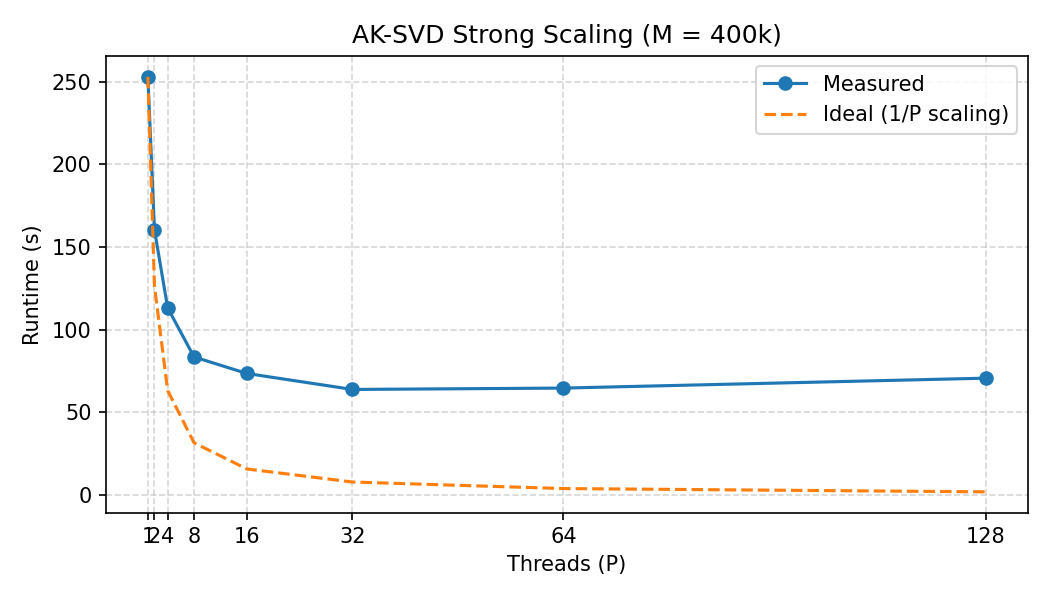
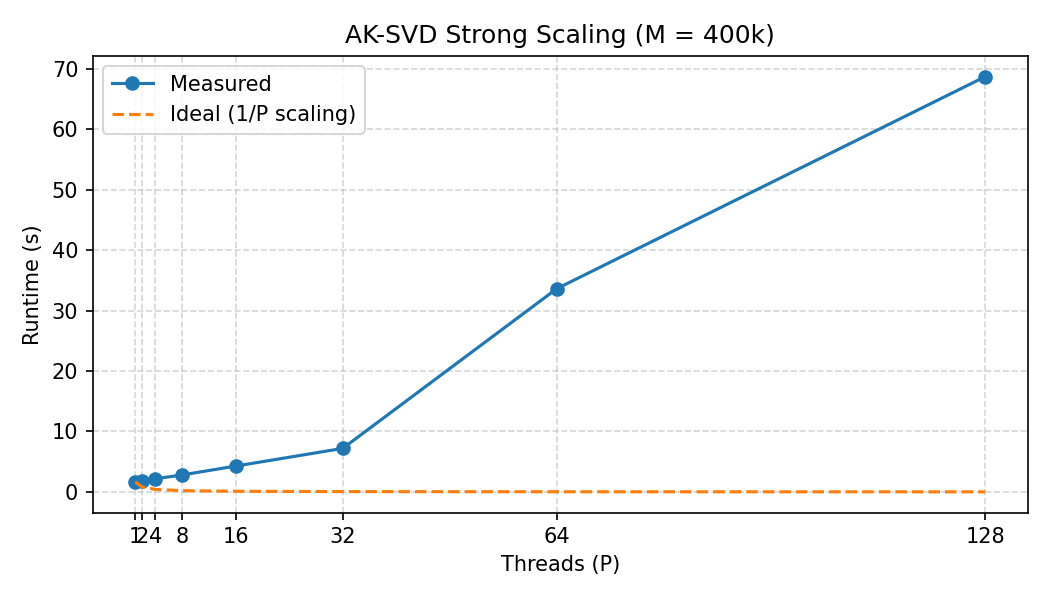
Weak scaling test results

diff --git a/Experiments/Scaling_cpp/scaling_comp_weak.py b/Experiments/Scaling_cpp/scaling_comp_weak.py
@@ -1,0 +1,75 @@
+import subprocess, re, os, csv
+import matplotlib
+matplotlib.use("Agg")
+import matplotlib.pyplot as plt
+
+BINARY = os.path.join(os.path.dirname(__file__),
+                      "../../Implementations/AK-SVD-Parallel/build/main")
+HERE = os.path.dirname(os.path.abspath(__file__))
+
+M = 400000
+THREADS = [1, 2, 4, 8, 16, 32, 64, 128]
+
+weak_scaling_range = [threads * (M // max(THREADS)) for threads in THREADS]
+
+means = []
+losses = []
+throughputs = []
+
+for idx,p in enumerate(THREADS):
+    env = os.environ.copy()
+    env["OMP_NUM_THREADS"] = str(p)
+
+    out = subprocess.run(
+        [BINARY, "--synth", str(weak_scaling_range[idx])],
+        capture_output=True, text=True,
+        env=env, cwd=os.path.dirname(BINARY)
+    ).stdout
+
+    # Parse runtime
+    m_time = re.search(r"mean\s*:\s*([\d.]+)", out)
+    mean = float(m_time.group(1)) if m_time else float("nan")
+
+    # Parse loss (adjust regex if needed)
+    m_loss = re.search(r"loss\s*:\s*([\d.eE+-]+)", out)
+    loss = float(m_loss.group(1)) if m_loss else 0.0  # fallback
+
+    throughput = M / mean if mean > 0 else float("nan")
+
+    means.append(mean)
+    losses.append(loss)
+    throughputs.append(throughput)
+
+    print(f"P={p:3d}  mean={mean:.4f}s  throughput={throughput:.4f}")
+
+# ---- Save CSV ----
+csv_path = os.path.join(HERE, "ksvd_scaling_strong.csv")
+
+with open(csv_path, "w", newline="") as f:
+    writer = csv.writer(f)
+    writer.writerow(["threads", "runtime", "loss", "throughput"])
+    for i in range(len(THREADS)):
+        writer.writerow([THREADS[i], means[i], losses[i], throughputs[i]])
+
+print(f"\nSaved CSV to {csv_path}")
+
+# ---- Plot ----
+ideal = [means[0] / p for p in THREADS]
+
+fig, ax = plt.subplots(figsize=(7, 4))
+ax.plot(THREADS, means, marker="o", label="Measured")
+ax.plot(THREADS, ideal, linestyle="--", label="Ideal (1/P scaling)")
+
+ax.set_xlabel("Threads (P)")
+ax.set_ylabel("Runtime (s)")
+ax.set_title("AK-SVD Strong Scaling (M = 400k)")
+ax.set_xticks(THREADS)
+ax.legend()
+ax.grid(True, linestyle="--", alpha=0.5)
+
+fig.tight_layout()
+
+out_path = os.path.join(HERE, "strong_scaling.png")
+fig.savefig(out_path, dpi=150)
+
+print(f"Saved plot to {out_path}")